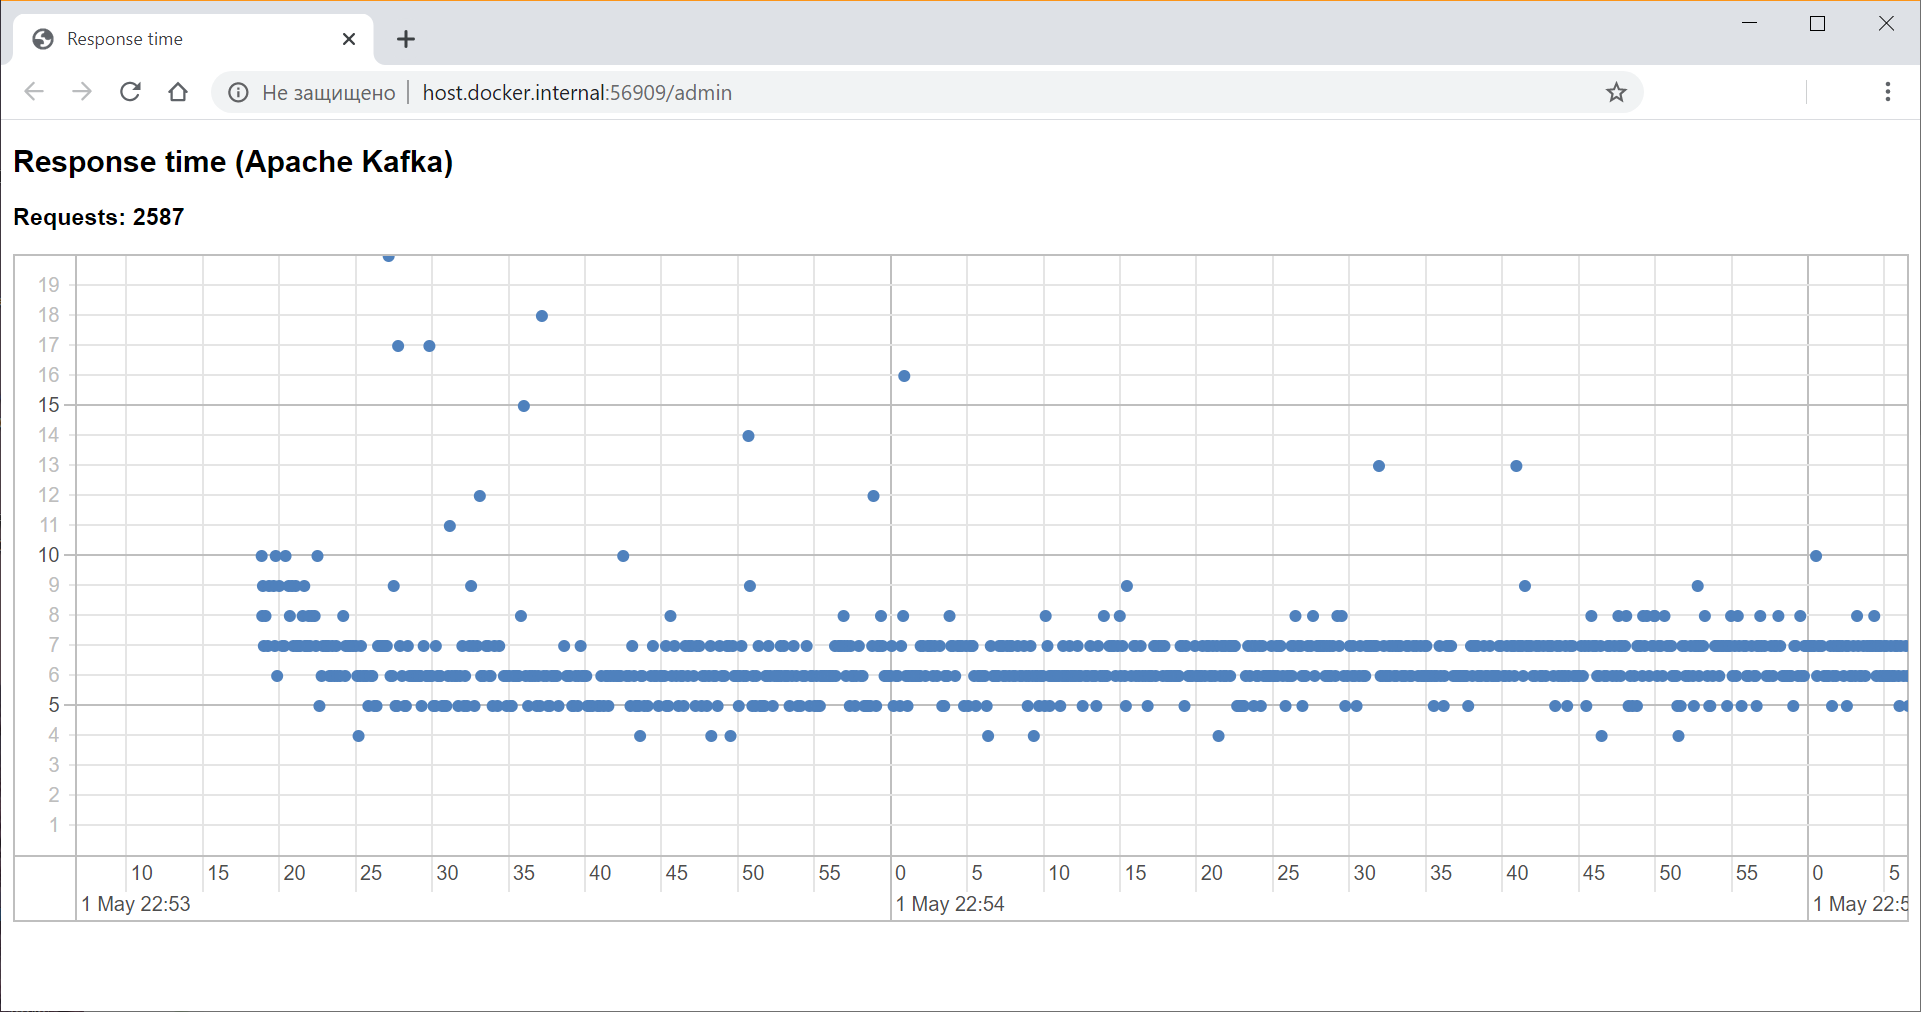
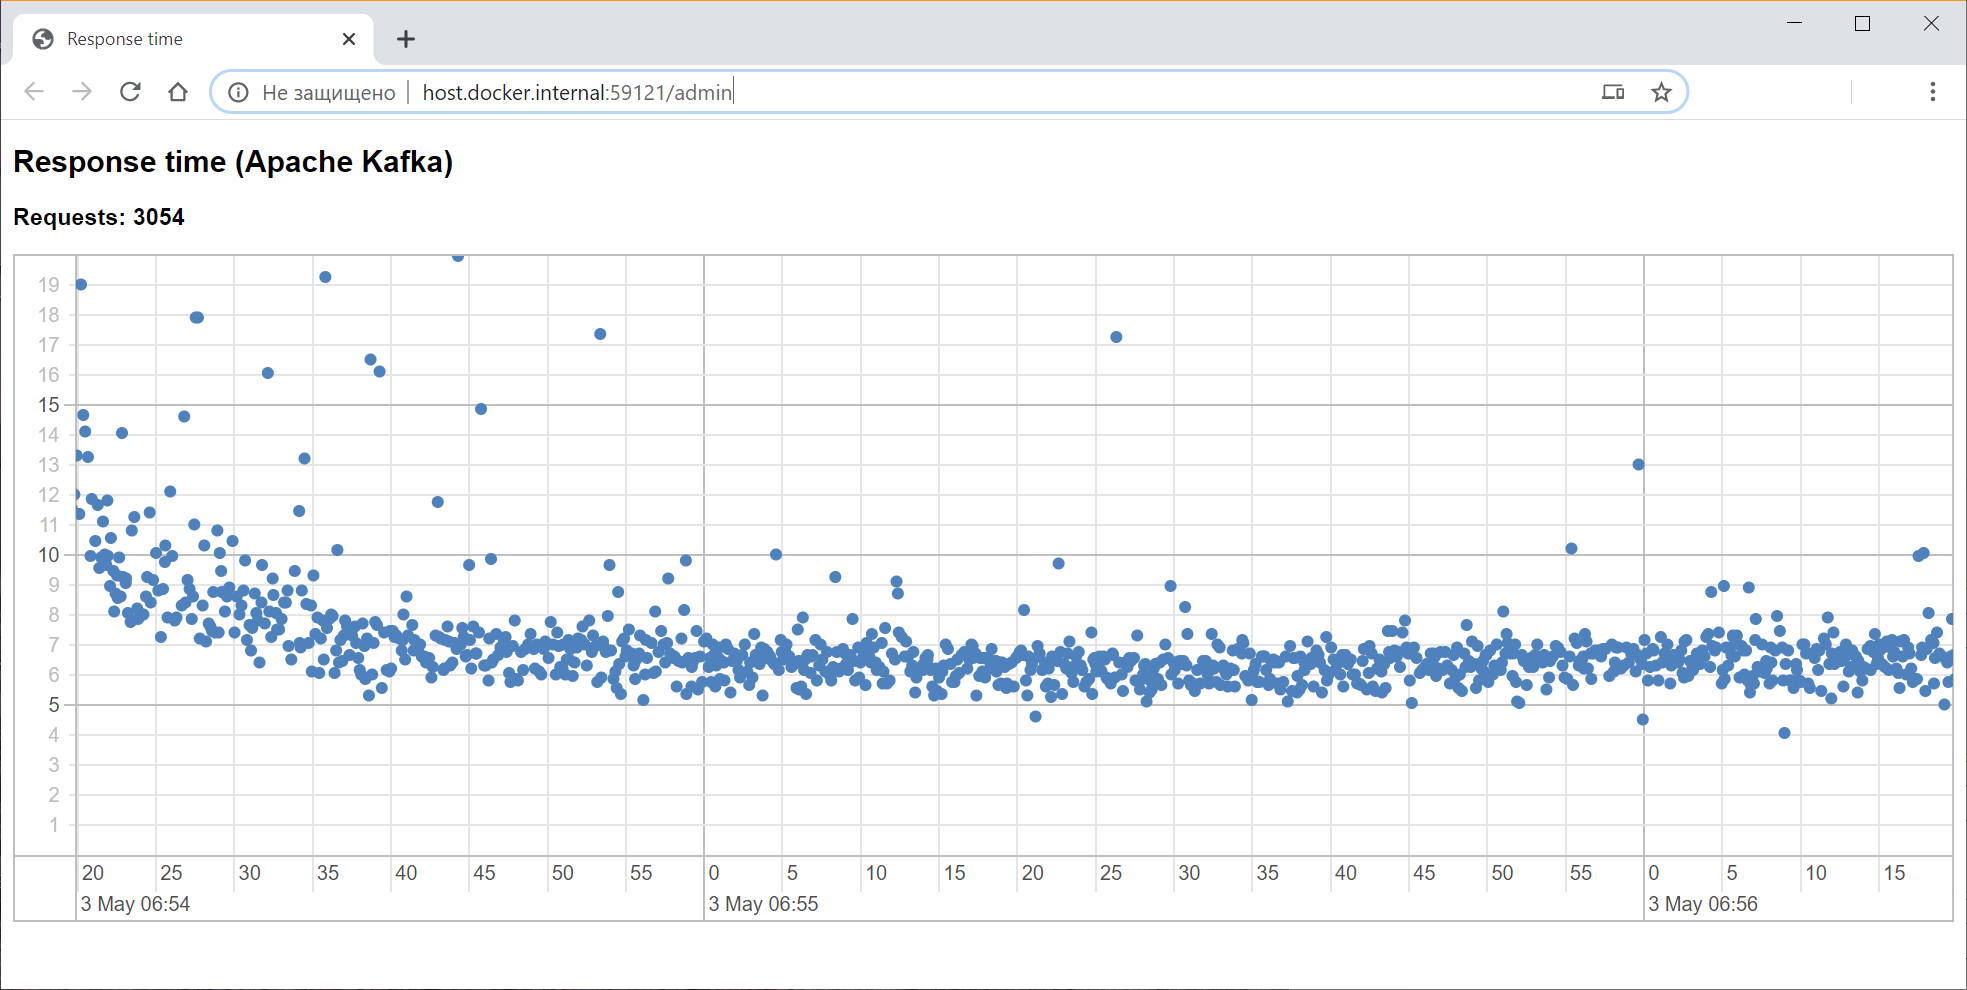
Refactoring

Changed region(s): [[0.0, 0.1515, 0.9995, 0.9394], [0.0, 0.0303, 0.8745, 0.1212]]

diff --git a/src/main/resources/admin.html b/src/main/resources/admin.html
@@ -1,6 +1,6 @@
 <!DOCTYPE html>
 <!-- saved from url=(0069)https://almende.github.io/vis/examples/graph2d/15_streaming_data.html -->
-<html>
+<html lang="en">
 
 <head>
   <meta http-equiv="Content-Type" content="text/html; charset=UTF-8">

diff --git a/src/main/java/com/transport/lib/zeromq/receivers/ZMQAsyncAndSyncRequestReceiver.java b/src/main/java/com/transport/lib/zeromq/receivers/ZMQAsyncAndSyncRequestReceiver.java
@@ -9,6 +9,7 @@ import com.transport.lib.exception.TransportExecutionException;
 import com.transport.lib.exception.TransportSystemException;
 import com.transport.lib.zookeeper.Utils;
 import lombok.extern.slf4j.Slf4j;
+import org.zeromq.SocketType;
 import org.zeromq.ZMQ;
 import org.zeromq.ZMQException;
 import zmq.ZError;
@@ -39,7 +40,7 @@ public class ZMQAsyncAndSyncRequestReceiver implements Runnable, Closeable {
 
         try {
             context = ZMQ.context(1);
-            socket = context.socket(ZMQ.REP);
+            socket = context.socket(SocketType.REP);
             socket.bind("tcp://" + Utils.getZeroMQBindAddress());
         } catch (UnknownHostException zmqStartupException) {
             log.error("Error during ZeroMQ request receiver startup:", zmqStartupException);
@@ -77,7 +78,7 @@ public class ZMQAsyncAndSyncRequestReceiver implements Runnable, Closeable {
                             output.close();
                             // Connect to client
                             ZMQ.Context contextAsync = ZMQ.context(1);
-                            ZMQ.Socket socketAsync = contextAsync.socket(ZMQ.REQ);
+                            ZMQ.Socket socketAsync = contextAsync.socket(SocketType.REQ);
                             socketAsync.connect("tcp://" + command.getCallBackZMQ());
                             // And send response
                             socketAsync.send(bOutput.toByteArray());

diff --git a/src/main/java/com/transport/lib/zeromq/ZeroMqRequestSender.java b/src/main/java/com/transport/lib/zeromq/ZeroMqRequestSender.java
@@ -4,6 +4,7 @@ import com.transport.lib.entities.Protocol;
 import com.transport.lib.request.Sender;
 import com.transport.lib.zookeeper.Utils;
 import lombok.extern.slf4j.Slf4j;
+import org.zeromq.SocketType;
 import org.zeromq.ZMQ;
 
 @Slf4j
@@ -15,7 +16,7 @@ public class ZeroMqRequestSender extends Sender {
         // New ZeroMQ context with 1 thread
         ZMQ.Context context = ZMQ.context(1);
         // Open socket
-        ZMQ.Socket socket = context.socket(ZMQ.REQ);
+        ZMQ.Socket socket = context.socket(SocketType.REQ);
         // Get target server host:port
         socket.connect("tcp://" + Utils.getHostForService(command.getServiceClass(), moduleId, Protocol.ZMQ));
         // Send Command to server
@@ -38,7 +39,7 @@ public class ZeroMqRequestSender extends Sender {
         // New ZeroMQ context with 1 thread
         ZMQ.Context context = ZMQ.context(1);
         // Open socket
-        ZMQ.Socket socket = context.socket(ZMQ.REQ);
+        ZMQ.Socket socket = context.socket(SocketType.REQ);
         // Get target server host:port
         socket.connect("tcp://" + Utils.getHostForService(command.getServiceClass(), moduleId, Protocol.ZMQ));
         // Send Command to server

diff --git a/src/main/java/com/transport/lib/request/RequestImpl.java b/src/main/java/com/transport/lib/request/RequestImpl.java
@@ -85,6 +85,7 @@ public class RequestImpl<T> implements Request<T> {
     public T executeSync() {
         initSender();
         command.setRequestTime(System.currentTimeMillis());
+        command.setLocalRequestTime(System.nanoTime());
         // Serialize command-request
         byte[] out = marshallCommand(command);
         // Response from server, if null - transport timeout occurred
@@ -122,6 +123,7 @@ public class RequestImpl<T> implements Request<T> {
         // Set user-provided unique callback key
         command.setCallbackKey(key);
         command.setRequestTime(System.currentTimeMillis());
+        command.setLocalRequestTime(System.nanoTime());
         // Add command to background finalization thread
         // that will throw "Transport execution timeout" on callback class after timeout expiration or 60 minutes if timeout was not set
         command.setAsyncExpireTime(System.currentTimeMillis() + (timeout != -1 ? timeout : 1000 * 60 * 60));

diff --git a/src/main/java/com/transport/lib/zeromq/receivers/ZMQAsyncResponseReceiver.java b/src/main/java/com/transport/lib/zeromq/receivers/ZMQAsyncResponseReceiver.java
@@ -11,6 +11,7 @@ import com.transport.lib.exception.TransportSystemException;
 import com.transport.lib.ui.AdminServer;
 import com.transport.lib.zookeeper.Utils;
 import lombok.extern.slf4j.Slf4j;
+import org.zeromq.SocketType;
 import org.zeromq.ZMQ;
 import org.zeromq.ZMQException;
 import zmq.ZError;
@@ -34,7 +35,7 @@ public class ZMQAsyncResponseReceiver implements Runnable, Closeable {
     public void run() {
         try {
             context = ZMQ.context(1);
-            socket = context.socket(ZMQ.REP);
+            socket = context.socket(SocketType.REP);
             socket.bind("tcp://" + Utils.getZeroMQCallbackBindAddress());
         } catch (UnknownHostException zmqStartupException) {
             log.error("Error during ZeroMQ response receiver startup:", zmqStartupException);

diff --git a/src/main/java/com/transport/lib/ui/AdminServer.java b/src/main/java/com/transport/lib/ui/AdminServer.java
@@ -31,7 +31,7 @@ public class AdminServer {
     private HttpServer server;
 
     public static void addMetric(Command command) {
-        long executionDuration = System.currentTimeMillis() - command.getRequestTime();
+        double executionDuration = (System.nanoTime() - command.getLocalRequestTime()) / 1000000.0;
         log.info(">>>>>> Executed request {} in {} ms", command.getRqUid(), executionDuration);
         responses.add(new ResponseMetric(command.getRequestTime(), executionDuration));
     }
@@ -117,6 +117,6 @@ public class AdminServer {
     @AllArgsConstructor
     public static class ResponseMetric {
         private final long time;
-        private final long duration;
+        private final double duration;
     }
 }

diff --git a/src/main/java/com/transport/lib/entities/Command.java b/src/main/java/com/transport/lib/entities/Command.java
@@ -46,6 +46,7 @@ public class Command {
     // For async calls: moment in the future after which Callback will receive "Transport execution timeout"
     private long asyncExpireTime;
     private long requestTime;
+    private long localRequestTime;
 
     public void setMetadata() {
         try {
